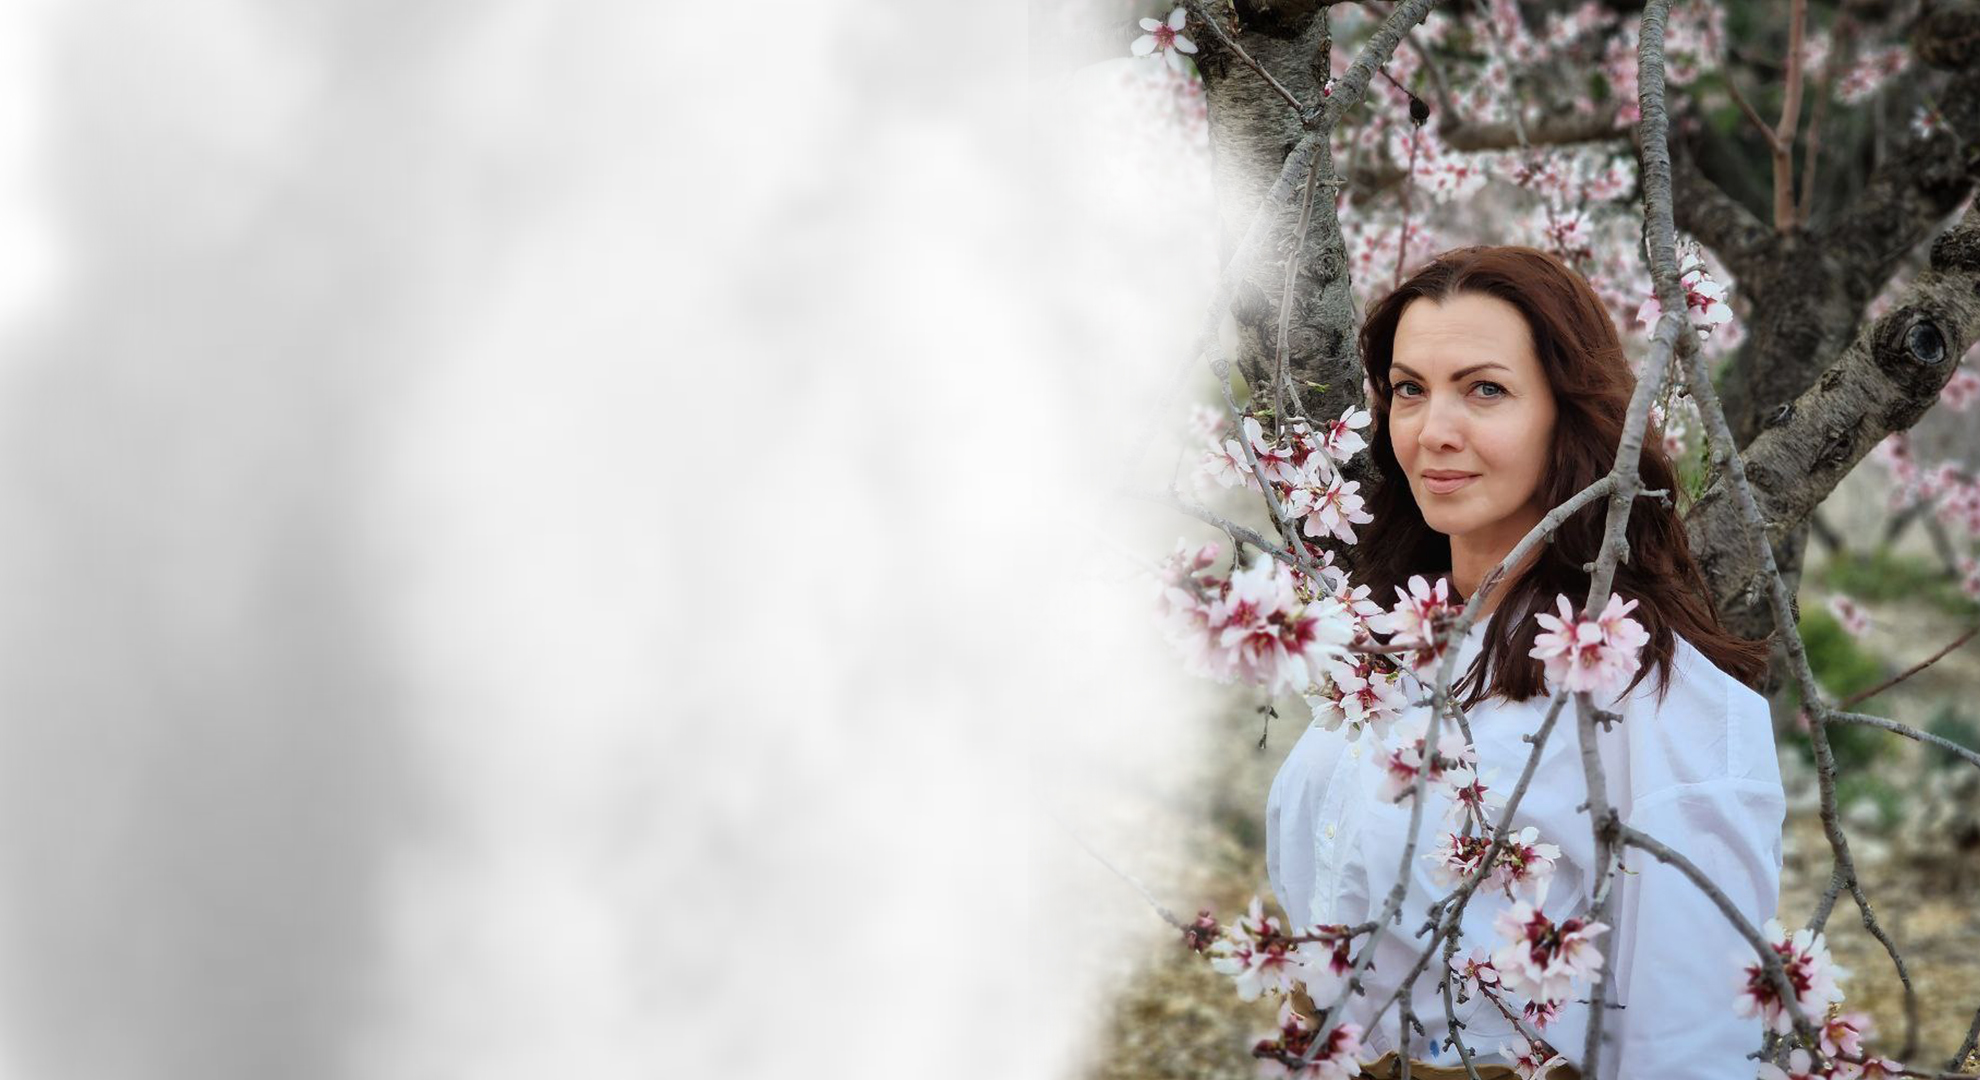
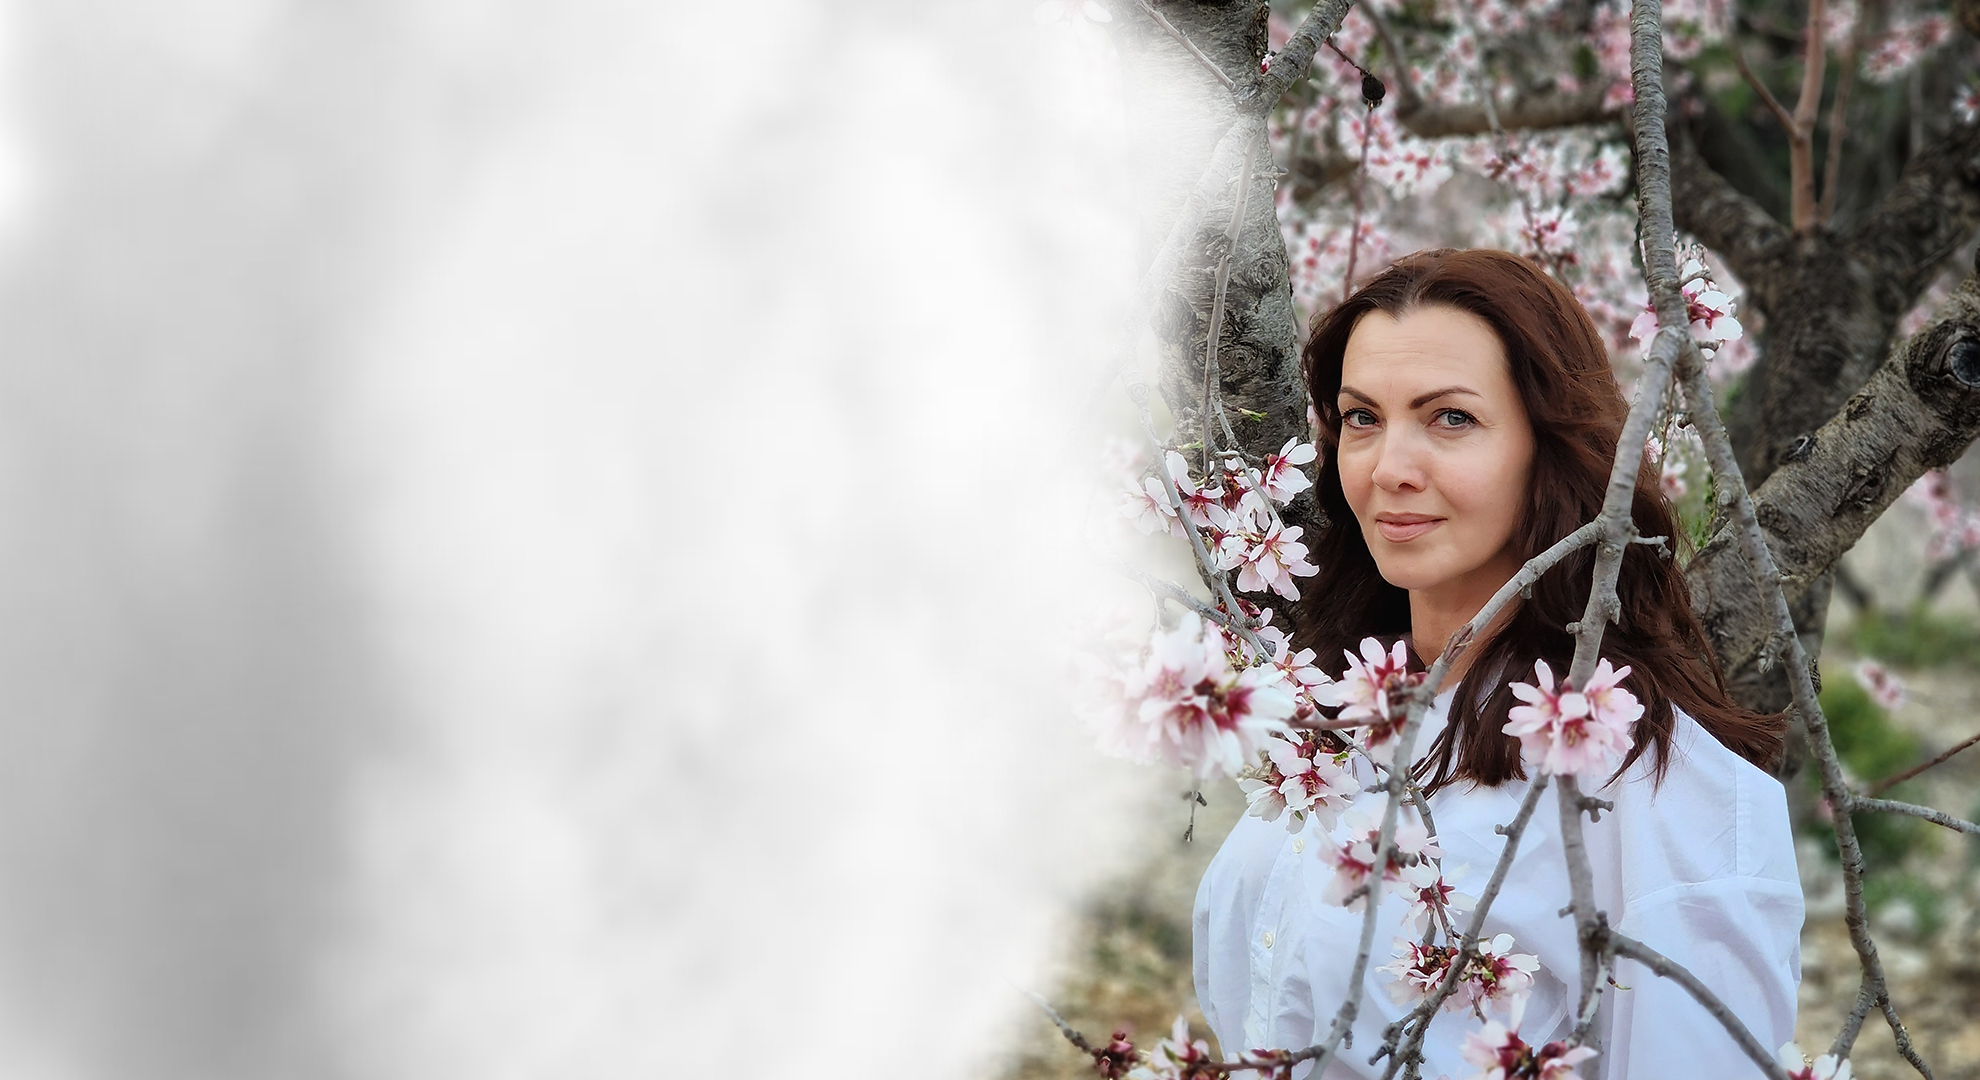
home page fixed
need to think about what to do with background image on small devices

diff --git a/src/Components/home/home.js b/src/Components/home/home.js
@@ -1,31 +1,31 @@
 import React from 'react';
 import 'bootstrap/dist/css/bootstrap.min.css';
-import './home.css'
+import './home.css';
 
-function home() {
+function Home() {
   return (
-      <div className="col-md-6" id="text">
-        <h3 className="mont-light" id="hi">Hi,</h3>
-        <h1 className="mont-medium" id="heading">I'm Karina Mihalonoka</h1>
-        <h5 className="mont-light" id="description">
-          I am professional photographer based on Benidorm, <br></br>
-          creating dreamscapes with black, white and shades inbetween.
-        </h5>
-
-        <div className='container'>
-          <div className='row'>
-            <div className='col-lg-4 d-flex align-items-end justify-content-end'>
-              <button type="button" className='btn border-dark'><a href="#gallery" className='mont-thin text-decoration-none text-dark'>Gallery</a></button>
-            </div>
-            <div className='col'>
-              <button type="button" className='btn border-dark'><a href="#contact" className='mont-thin text-decoration-none text-dark'>Contact me</a></button>
-            </div>
-
+    <div className="container">
+      <div className="row">
+        <div className="col-md-6" id="text">
+          <h3 className="mont-light" id="hi">Hi,</h3>
+          <h1 className="mont-medium" id="heading">I'm Karina Mihalonoka</h1>
+          <h5 className="mont-light" id="description">
+            I am a professional photographer based in Benidorm, <br />
+            creating dreamscapes with black, white, and shades in between.
+          </h5>
+          
+          <div>
+            <button type="button" className='btn border-dark me-2'>
+              <a href="#gallery" className='mont-thin text-decoration-none text-dark'>Gallery</a>
+            </button>
+            <button type="button" className='btn border-dark'>
+              <a href="#contact" className='mont-thin text-decoration-none text-dark'>Contact me</a>
+            </button>
           </div>
         </div>
-
       </div>
+    </div>
   );
 }
 
-export default home;
+export default Home;

diff --git a/src/Components/navbar/navbar.js b/src/Components/navbar/navbar.js
@@ -1,11 +1,13 @@
 import React from 'react';
 import 'bootstrap/dist/css/bootstrap.min.css';
-import './navbar.css'
 
 function Navbar() {
   return (
-    <nav className='navbar navbar-expand-md'>
+    <nav className='navbar navbar-expand-md fixed-top'>
       <a className='navbar-brand mx-5 fs-1 fw-bold' href='#'>KRN</a>
+      <button className='navbar-toggler' type='button' data-bs-toggle='collapse' data-bs-target='#navbarNav' aria-controls='navbarNav' aria-expanded='false' aria-label='Toggle navigation'>
+        <span className='navbar-toggler-icon'></span>
+      </button>
       <div className='collapse navbar-collapse' id='navbarNav'>
         <ul className='navbar-nav ms-auto mx-5'>
           <li className='nav-item me-3'><a className='nav-link fs-4 text-white' href='#'>Home</a></li>
@@ -15,7 +17,6 @@ function Navbar() {
           <li className='nav-item'><a className='nav-link fs-4 text-white' href='#contact'>Contact</a></li>
         </ul>
       </div>
-      
     </nav>
   );
 }

diff --git a/src/App.js b/src/App.js
@@ -1,12 +1,14 @@
 import './App.css';
 import Navbar from './Components/navbar/navbar';
 import Home from './Components/home/home';
+import About from './Components/about/about';
 
 function App() {
   return (
     <div className="App">
       <Navbar/>
       <Home/>
+      <About/>
     </div>
   );
 }

diff --git a/src/App.css b/src/App.css
@@ -56,9 +56,12 @@
 }
 
 body{
+    margin: 0;
+    padding: 0;
     background-image: url('../public/assets/bg.jpg');
     background-repeat: no-repeat;
     background-size: cover;
+    background-position: center;
     height: 100vh;
 }
 

diff --git a/src/Components/home/home.css b/src/Components/home/home.css
@@ -1,6 +1,7 @@
+
 #text{
     margin-top: 25vh;
-    margin-left: 10vh;
+    margin-bottom: 45vh;
     text-align: left;
 }
 
@@ -16,4 +17,6 @@
     word-spacing: 3px;
     font-size: 2.5vh;
 }
+
+
 

diff --git a/src/Components/about/about.js b/src/Components/about/about.js
@@ -1,0 +1,11 @@
+import React from 'react'
+
+const About = () => {
+  return (
+    <div className='container'>
+      About
+    </div>
+  )
+}
+
+export default About
